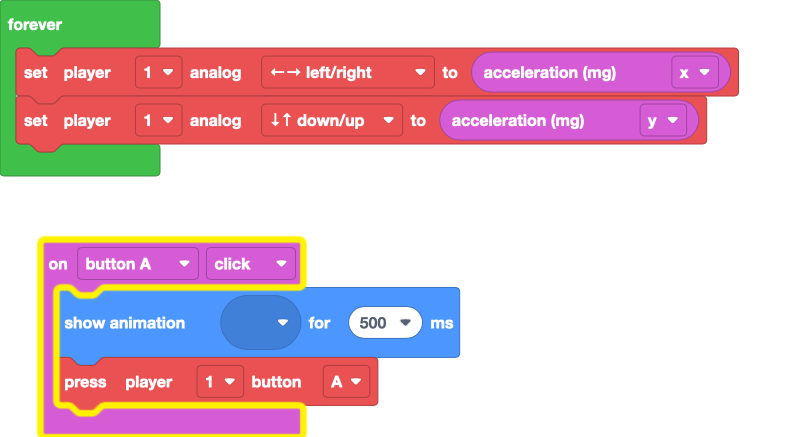
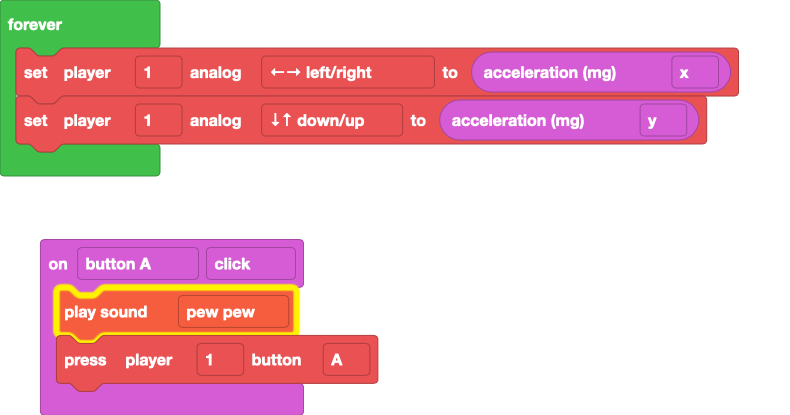
Update main.blocks, main.ts

diff --git a/main.ts b/main.ts
@@ -1,5 +1,5 @@
 input.buttonA.onEvent(ButtonEvent.Click, function () {
-    light.showAnimation(light.runningLightsAnimation, 500)
+    music.pewPew.play()
     makerController.player1.press(ArcadeButton.A)
 })
 forever(function () {
